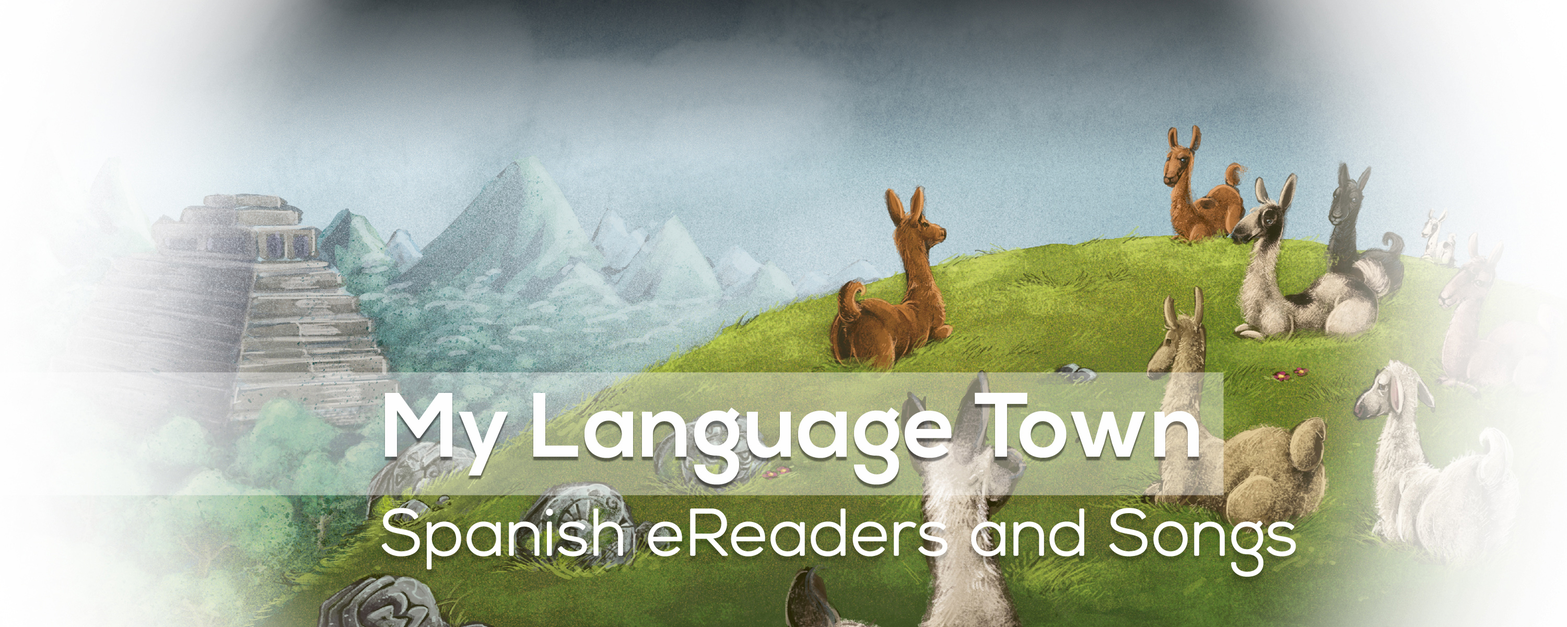
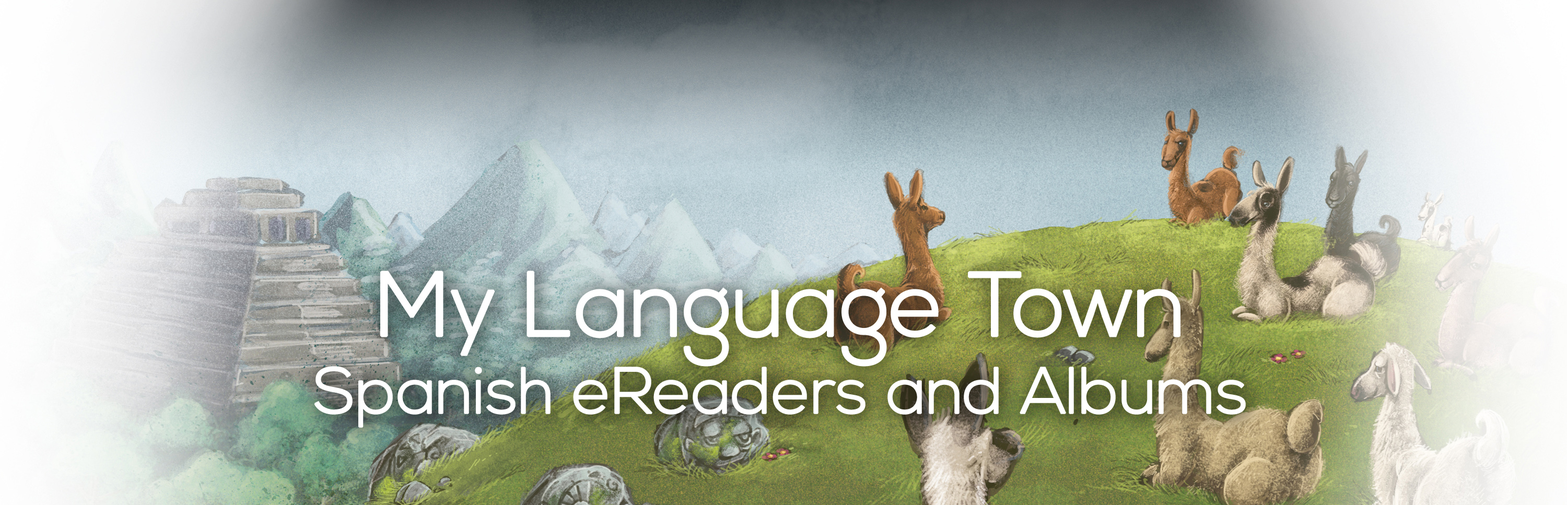
TX and MLT Page Updates

diff --git a/lib/css/styles.css b/lib/css/styles.css
@@ -3094,7 +3094,7 @@ table .ereaders-smaller {
     color: #444444;    
 }
 .texas-landing .top-slice {
-    padding: 500px 0 0;
+    padding: 500px 0 20px;
 }
 .dark-grey-slice {
     padding: 50px 0;
@@ -3168,6 +3168,9 @@ table .ereaders-smaller {
 }
 .rep-container img {
     max-width: 100%;
+}
+.texas-resources h3 {
+    font-size: 32px;
 }
 
 /* -------- End Texas Page ------------- */
@@ -3403,7 +3406,7 @@ p.symtalk-steps {
     padding-top: 20px;
 }
 .paddingbottom20 {
-    padding-top: 20px;
+    padding-bottom: 20px;
 }
 .paddingtop40 {
     padding-top: 40px;   
@@ -3583,7 +3586,7 @@ p.symtalk-steps {
 /* -------- Start My Language Town Page Styles ------------- */
 
 .mlt-bg, .mlt-bg #topImg {
-    height: 600px;   
+    height: 484px;   
 }
 .mlt-bg #topImg {
     background: #FFF url('../images/mlt-header.jpg') no-repeat 50% 100%;   
@@ -3605,6 +3608,9 @@ p.symtalk-steps {
 }
 .mlt iframe:last-child {
     margin-bottom: 0px;
+}
+.mlt .secondary-first {
+    margin-top: 334px;
 }
 .mlt .secondary-first h2 {
     font-size: 22px;

diff --git a/texas/resources/index.php b/texas/resources/index.php
@@ -9,27 +9,41 @@
 		<div class="header-top">
 			<?php include '../../includes/nav.php'; ?>
 		</div>
-		<div class="white-slice al-top-content">
+		<div class="white-slice al-top-content paddingtop20 paddingbottom20">
             <div class="seveneighty">
-                <p>Hello Texas Teachers. Welcome to our Proclamation 2017 Resources site. EMC offers Spanish, French, German, and Chinese Language Programs, all of which are available in our award winning digital platform Passport®.  Feel free to look at our resources or go to our Texas Proclamation 2017 Homepage for more information and to request samples.</p>
-
-                <h2>Passport</h2>
-                <p>There is a lot that could be said about Passport, but its even better to experience it: http://www.emcp.com/passport/tour/</p>
-
-                <h2>Proclamation 2017 Approved Language Programs</h2>
+                <p>Hello Texas Teachers. Welcome to our Proclamation 2017 Resources site. EMC offers Spanish, French, German, and Chinese Language Programs, all of which are available in our award winning digital platform Passport<sup>&reg;</sup>.  Feel free to look at our resources or go to our Texas Proclamation 2017 Homepage for more information and to request samples.</p>
+            </div>
+        </div>
+        <div class="grey-slice paddingtop20 paddingbottom20">
+            <div class="seveneighty">
+                <h3>Passport</h3>
+                <p>There is a lot that could be said about Passport, but its even better to <a href="/passport/tour/" class="learn-more-link">experience it</a>.</p>
+            </div>
+        </div>
+        <div class="white-slice paddingtop20 paddingbottom20">
+            <div class="seveneighty">
+                <h3>Proclamation 2017 Approved Language Programs</h3>
                 <p><a href="https://www.joomag.com/magazine/texas-adoption-program-overviews/M0939966001459540031" target="_blank" class="learn-more-link">See the detailed Program overview for our Spanish and French programs.</a></p>
-
-                <h2>Available Languages Overview Brochures 
-                <p>See our Program Overview Brochures here: https://www.joomag.com/magazine/emc-world-language-brochures/M0396129001457106036
-                Exploring Spanish (still needed)</p>
-
-                <h2>TEKS
-                Click here to download the TEKS correlations.</p>
-
-                <h2>Extended reading support
+            </div>
+        </div>
+        <div class="grey-slice paddingtop20 paddingbottom20">
+            <div class="seveneighty">
+                <h3>Available Languages Overview Brochures</h3>
+                <p><a href="https://www.joomag.com/magazine/emc-world-language-brochures/M0396129001457106036" target="_blank" class="learn-more-link">See our Program Overview Brochures here</a>.</p>
+            </div>
+        </div>
+        <div class="white-slice paddingtop20 paddingbottom20">
+            <div class="seveneighty">
+                <h3>TEKS</h3>
+                <p><a href="/lib/assets/TEKS.zip" class="learn-more-link">Click here to download the TEKS correlations.</a></p>
+            </div>
+        </div>
+        <div class="grey-slice paddingtop20 paddingbottom20">
+            <div class="seveneighty">
+                <h3>Extended reading support</h3>
                 <p>Enhance your students' learning experience with leveled readers in the target language. Readers help develop students’ grammar and vocabulary knowledge while building their ability to comprehend increasingly difficult pieces of literature.</p>
 
-                <p><a href="/world-languages/readers/" class="learn-more-link">Click here to learn more about readers.</a></p>
+                <p><a href="/world-languages/readers/" class="learn-more-link">Click here</a> to learn more about readers.</p>
 
             </div>
         </div>

diff --git a/texas/index.php b/texas/index.php
@@ -15,13 +15,13 @@
                 <p><a href="#expandable-spanish" class="expandable-link">Spanish</a> &nbsp; | &nbsp; <a href="#expandable-french" class="expandable-link">French</a> &nbsp; | &nbsp; <a href="#expandable-german" class="expandable-link">German</a> &nbsp; | &nbsp; <a href="#expandable-chinese" class="expandable-link">Chinese</a> &nbsp; | &nbsp; <a href="<?php echo $server; ?>texas/resources/">Resources</a></p>
             </div>            
         </div>
-		<div class="light-grey-slice paddingtop20 paddingbottom20 textcenter">
+		<div class="grey-slice paddingtop20 paddingbottom20 textcenter">
             <div class="seveneighty">
                 <h2 class="purple">Meaningful Language Learning</h2>
                 <p>Provide students with the context, skills, and understanding they’ll need to function in today’s globalized, interconnected world. Spark interest with rich, authentic culture that brings your lessons to life.</p>
             </div>
         </div>
-		<div class="dark-grey-slice" style="padding:20px 0 !important;">
+		<div class="dark-grey-slice paddingtop20 paddingbottom40">
             <div class="seveneighty">
                 <h2 class="textcenter marginbottom0">Passport</h2>
                 <p class="textcenter nomargin nopadding marginbottom15">Our content and so much more!</p>
@@ -365,7 +365,6 @@
                 <p>Contact your Account Manager anytime!</p>
                 <div class="one-fourth-col">
                     <div class="rep-container textleft">
-                        <img src="<?php echo $server; ?>lib/images/texas-rep-1.jpg" />
                         <p><strong>Phil Neill</strong><br />
                         817-637-7445<br />
                         <a href="mailto:pneill@emcp.com">pneill@emcp.com</a></p>
@@ -374,7 +373,6 @@
                 </div>                
                 <div class="one-fourth-col">
                     <div class="rep-container textleft">
-                        <img src="<?php echo $server; ?>lib/images/texas-rep-2.jpg" />
                         <p><strong>Vicki Robinson</strong><br />
                         405-426-7245<br />
                         <a href="mailto:vrobinson@emcp.com">vrobinson@emcp.com</a></p>
@@ -383,7 +381,6 @@
                 </div>                
                 <div class="one-fourth-col">
                     <div class="rep-container textleft">
-                        <img src="<?php echo $server; ?>lib/images/texas-rep-3.jpg" />
                         <p><strong>Joni Dodson</strong><br />
                         281-799-8133<br />
                         <a href="mailto:jdodson@emcp.com">jdodson@emcp.com</a></p>
@@ -392,7 +389,6 @@
                 </div>                
                 <div class="one-fourth-col">
                     <div class="rep-container textleft">
-                        <img src="<?php echo $server; ?>lib/images/texas-rep-4.jpg" />
                         <p><strong>Nancy Welch</strong><br />
                         201-865-5467<br />
                         <a href="mailto:nwelch@emcp.com">nwelch@emcp.com</a></p>
